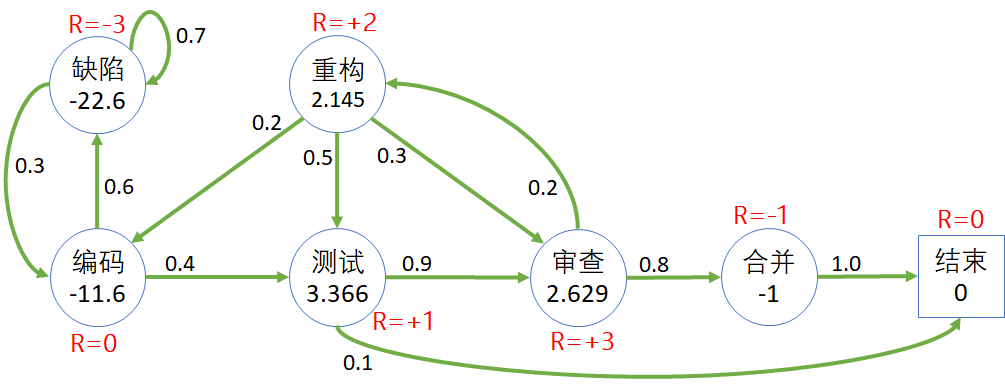
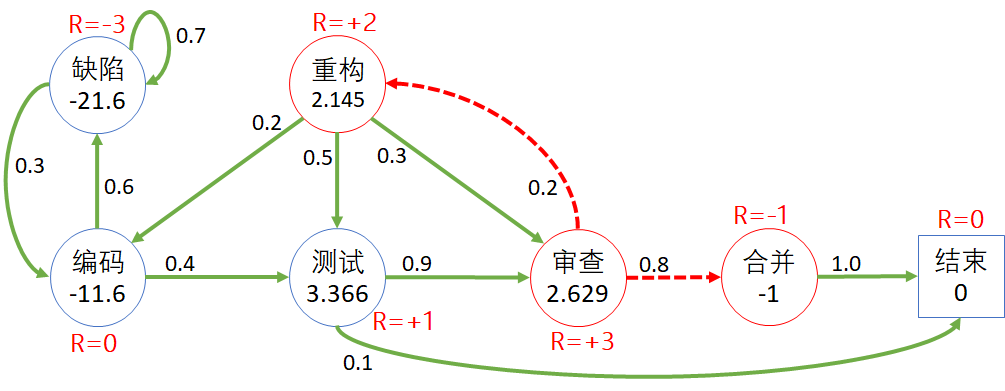
update

diff --git a/基础教程/A7-强化学习/draft/70-代码生命周期问题 - 贝尔曼方程/1-代码生命周期问题.md b/基础教程/A7-强化学习/draft/70-代码生命周期问题 - 贝尔曼方程/1-代码生命周期问题.md
@@ -2,11 +2,11 @@
 
 ### 1 提出问题
 
-在解决安全驾驶问题的过程中，我们学习了马尔可夫奖励过程、状态价值函数、蒙特卡洛采样法等强化学习的重要概念。蒙特卡洛法虽然是一种科学的方法，但是需要大量的采样才能得到**比较理想的结果**，并不能说是**准确的结果**。
+在解决安全驾驶问题的过程中，我们学习了马尔可夫奖励过程、状态价值函数等强化学习的重要概念。其中，计算价值函数需要大量的采样然后求平均值，才能得到**比较理想的结果**，并不能说是**准确的结果**，因为我们无法衡量什么叫做准确。
 
-蒙特卡洛法是针对**无模型**强化学习问题的，对于**有模型**的问题，我们有什么更好的方法可以解决吗？
+那么有没有更好的方法呢？
 
-在本节中，我们以代码的生命周期问题为例，通过描述开发过程（编码、测试、审查、合并等）的状态/过程，来寻找用于分析解决有模型问题的**更好的办法**，而不是一味地使用蒙特卡洛方法依靠大数定理来计算状态价值函数。
+在本节中，我们以代码的生命周期问题为例，通过描述开发过程（编码、测试、审查、合并等）的状态/过程，来寻找用于分析解决有模型问题的**更好的办法**，而不是一味地使用采样方法依靠大数定理来计算状态价值函数。
 
 
 ### 2 建立模型
@@ -24,11 +24,11 @@
 
 
 
-状态的说明已经奖励函数的定义：
+状态的说明以及奖励函数的定义：
 
 - C：编码 Coding
 
-  开发人员写代码的状态，全神贯注，废寝忘食。在此状态下无法确定代码质量，所以 $R=0$。
+  开发人员写代码的状态，全神贯注，废寝忘食。在此状态下无法确定代码质量，所以 $R=0$（这个听上去比较令人心寒，但却是事实）。
 
   - 有 0.6 的概率产生 bug，需要修复。
   - 另外 0.4 的概率进入审查状态。

diff --git a/基础教程/A7-强化学习/draft/50-安全驾驶问题的进阶 - 状态价值函数/状态价值函数的理解.md b/基础教程/A7-强化学习/draft/50-安全驾驶问题的进阶 - 状态价值函数/状态价值函数的理解.md
@@ -186,7 +186,9 @@ R2 = [-1, -1, -1, -1, -1, 0]
 
     表 1 中的状态值都是正数，表 2 中都是负数，这合理吗？作为一个价值体系来说，正值和负值其实没有绝对意义，相互之间的差值才能够真正体现状态价值。所以只要越靠近终点的状态价值越高，就可以了。
 
-所以，大家在阅读强化学习的资料时，通常会看到如情况二这种奖励方式。这也是笔者开始学习时感到不解的地方，经过试验后，相比大家应该明白了。
+所以，大家在阅读强化学习的资料时，通常会看到如情况二这种奖励方式。这也是笔者开始学习时感到不解的地方，经过试验后，想必大家应该明白了。
+
+另外，还有一个方法可以避免终止状态不为 0 的问题，就是像安全驾驶问题中那样建模：虽然*安全到家*和*发生事故*已经可以看作是终止状态了，但是可以人为地定义一个独立的*终止*状态，令*安全到家*和*发生事故*都以 100% 的概率转移到该终止状态。
 
 ### 基于过程的奖励方法
 

diff --git a/基础教程/A7-强化学习/draft/70-代码生命周期问题 - 贝尔曼方程/3-手工验算.md b/基础教程/A7-强化学习/draft/70-代码生命周期问题 - 贝尔曼方程/3-手工验算.md
@@ -80,7 +80,7 @@ $$
 
 $$
 \begin{cases}
-v_0 \approx -22.634
+v_0 \approx -21.634
 \\
 v_1 \approx -11.634
 \\
@@ -105,6 +105,13 @@ $$
 图 3 价值函数计算结果
 </center>
 
+得到结果后，可以验证一下图 3 中红色线条部分：
+
+$$
+2.629 = 3 + 1 \times [0.2 \times 2.145  + 0.8 \times (-1) ]
+$$
+
+完全符合价值函数的定义。
 
 ### 给过程定义奖励
 
@@ -144,3 +151,7 @@ R(F) &= p_{F,C} r_{F,C} + p_{F,T} r_{F,T} + p_{F,R} r_{F,R}
 $$
 
 然后再列方程组即可的解。
+
+### 思考与练习
+
+1. 读者可以自行验证图 3 中的“缺陷”状态的价值函数，以获得深刻理解。
